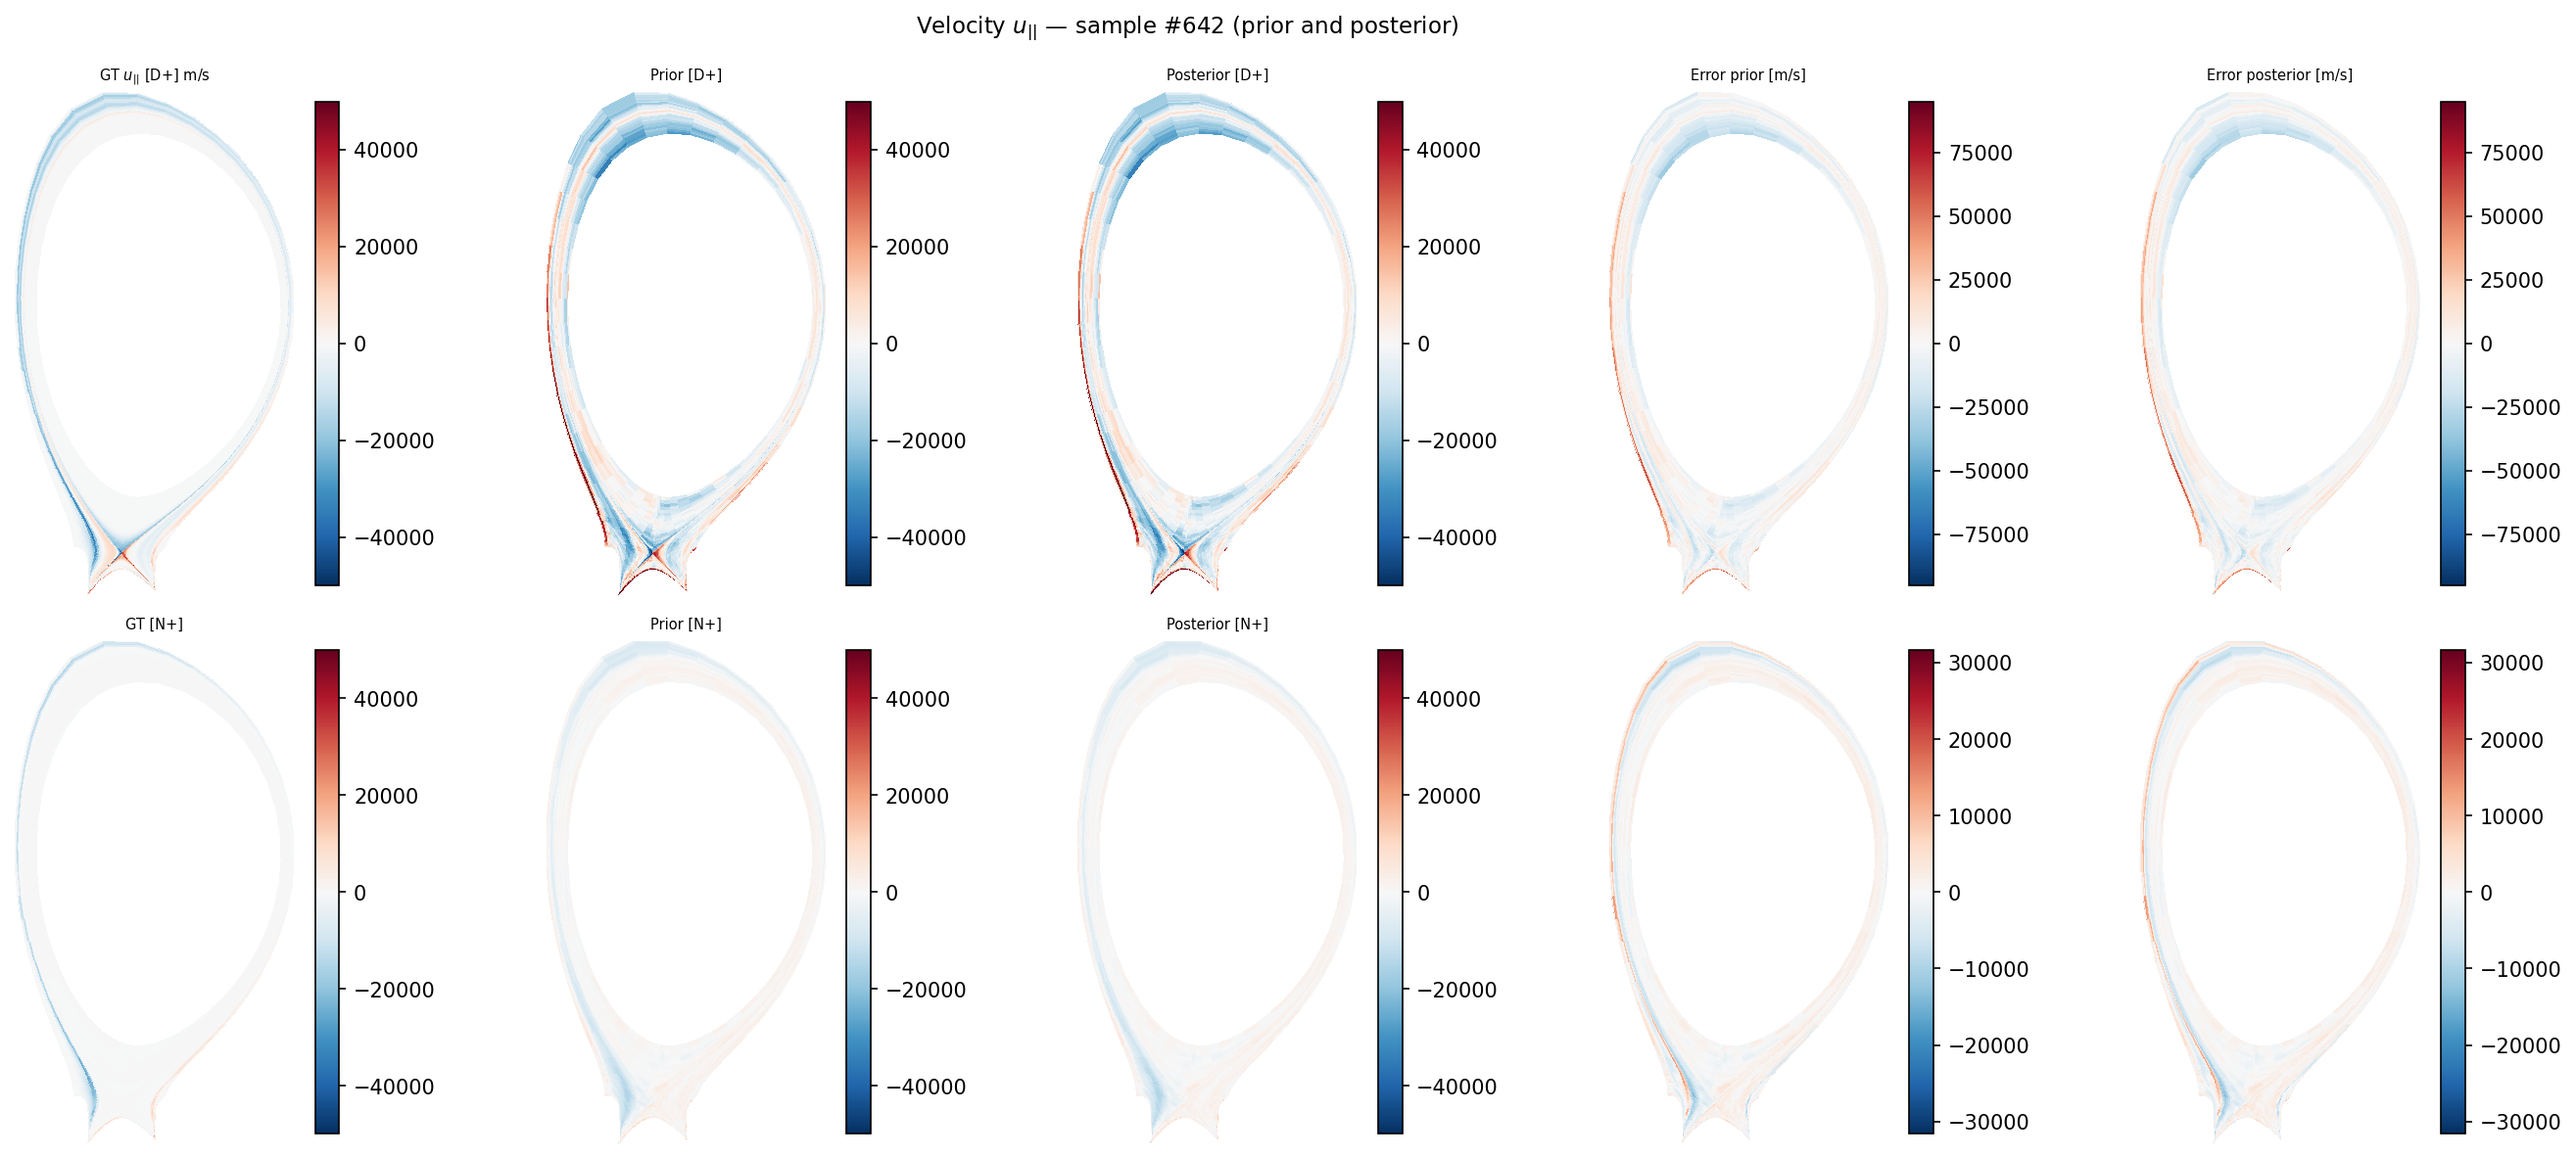
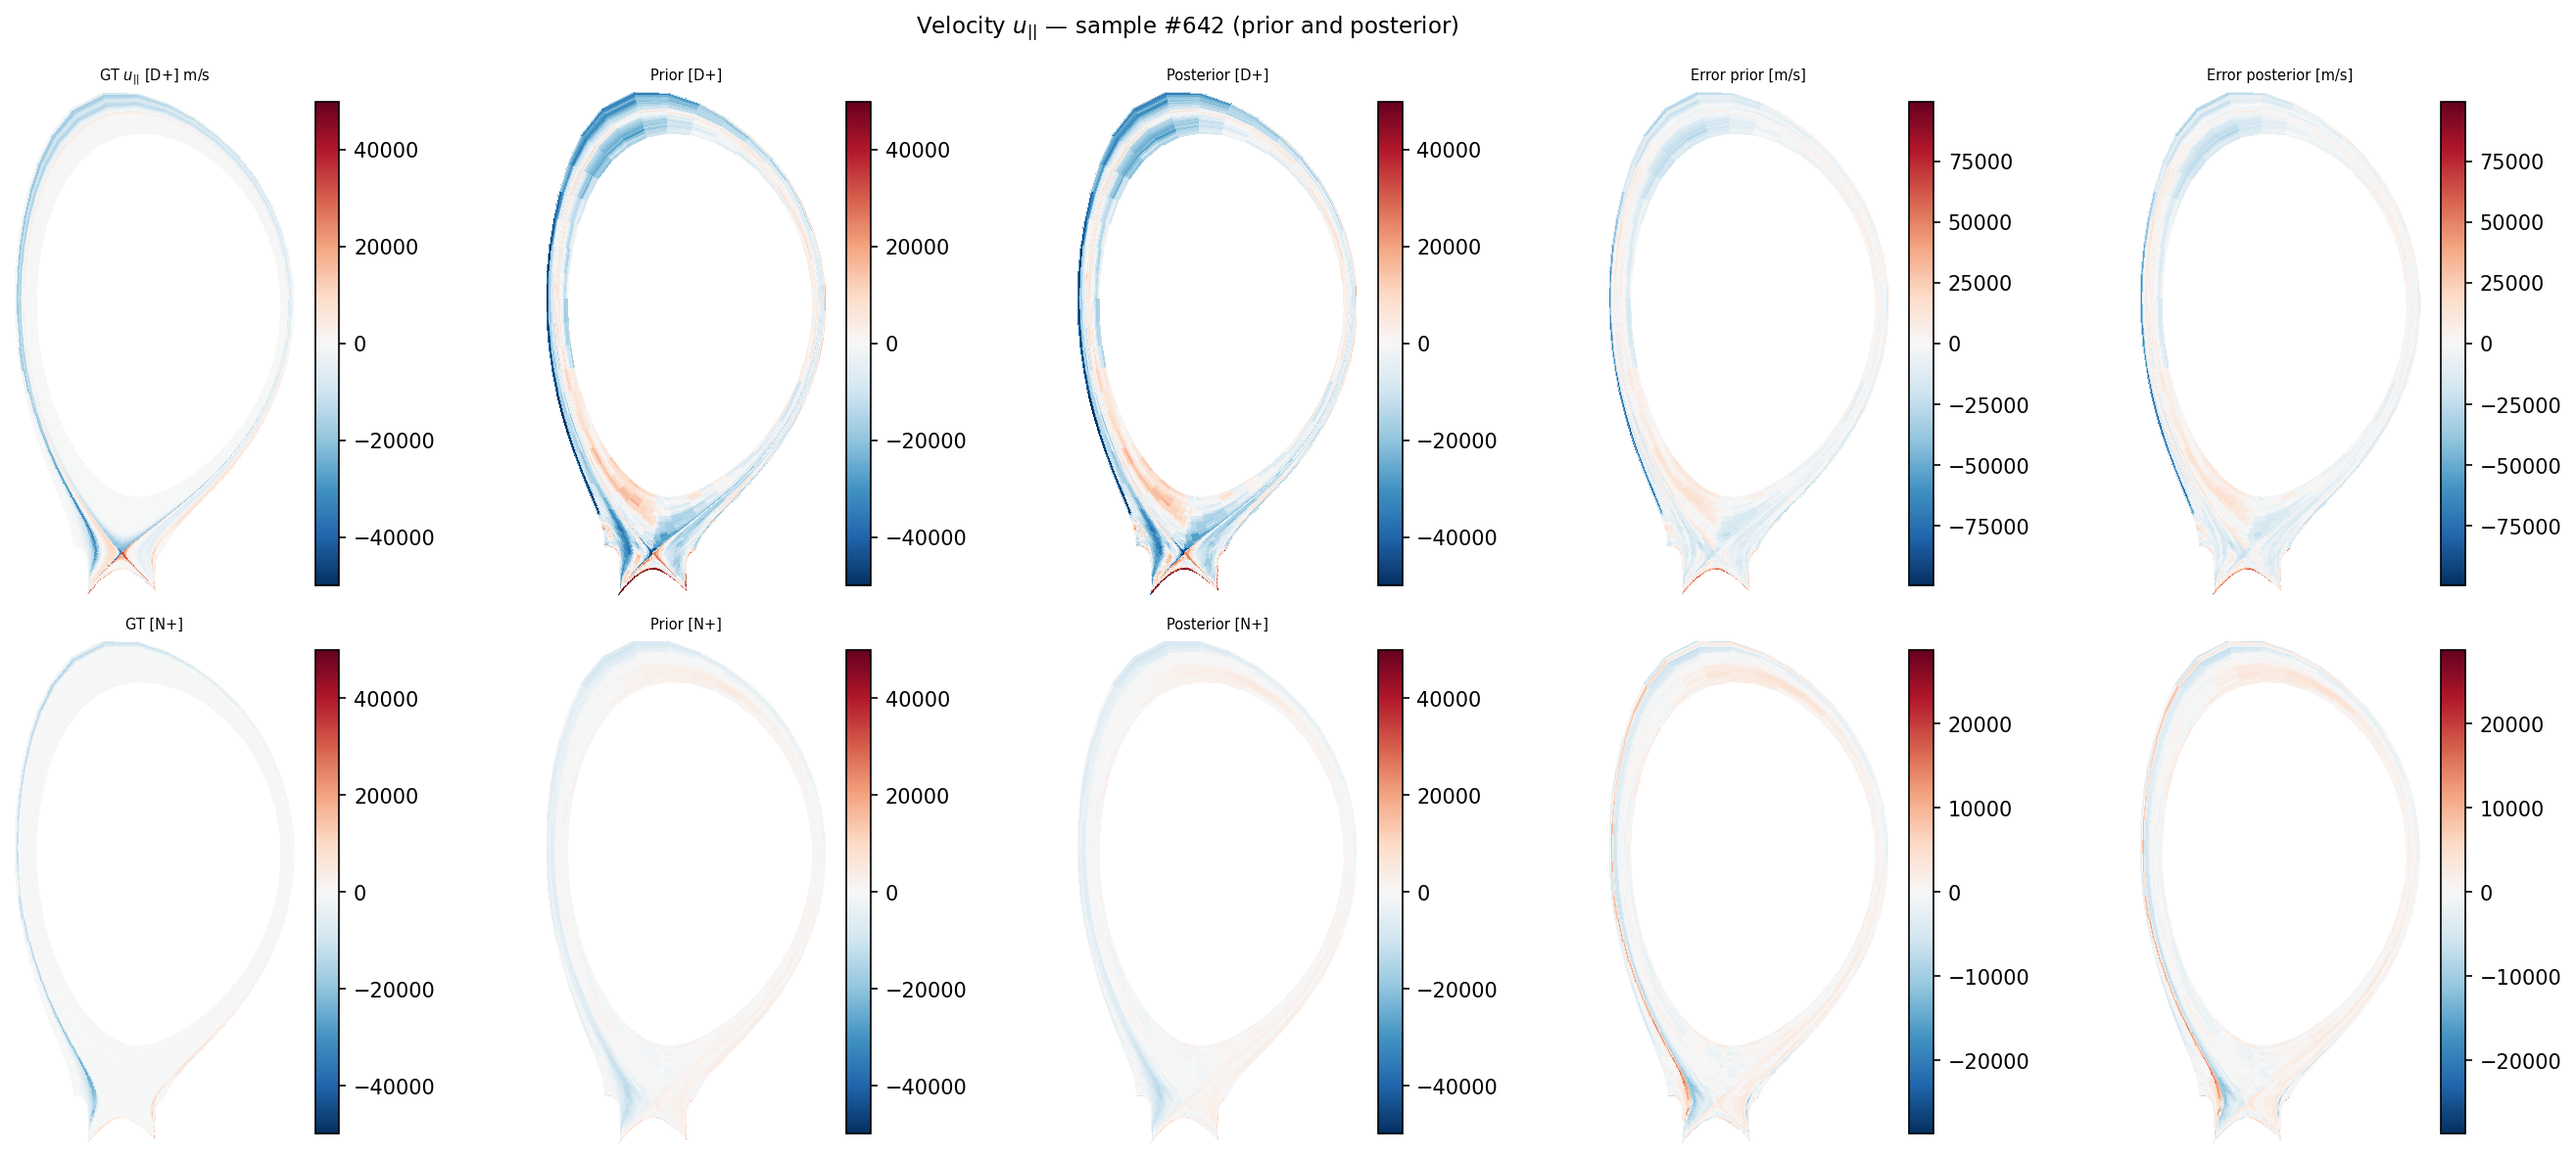
Update PCVAE figures and adjust BETA_KLD parameter for improved training stability

diff --git a/main_train_pcvae.py b/main_train_pcvae.py
@@ -46,7 +46,7 @@ BATCH_SIZE  = 64
 LR          = 1e-3
 LATENT_SIZE = 128
 #HIDDEN      = 2048
-BETA_KLD    = 0.01
+BETA_KLD    = 3e-6
 FREE_BITS   = 0.5
 BETA_WARMUP = 1        # KL capacity warm-up epochs
 KLD_CAPACITY_MAX = 3.0
